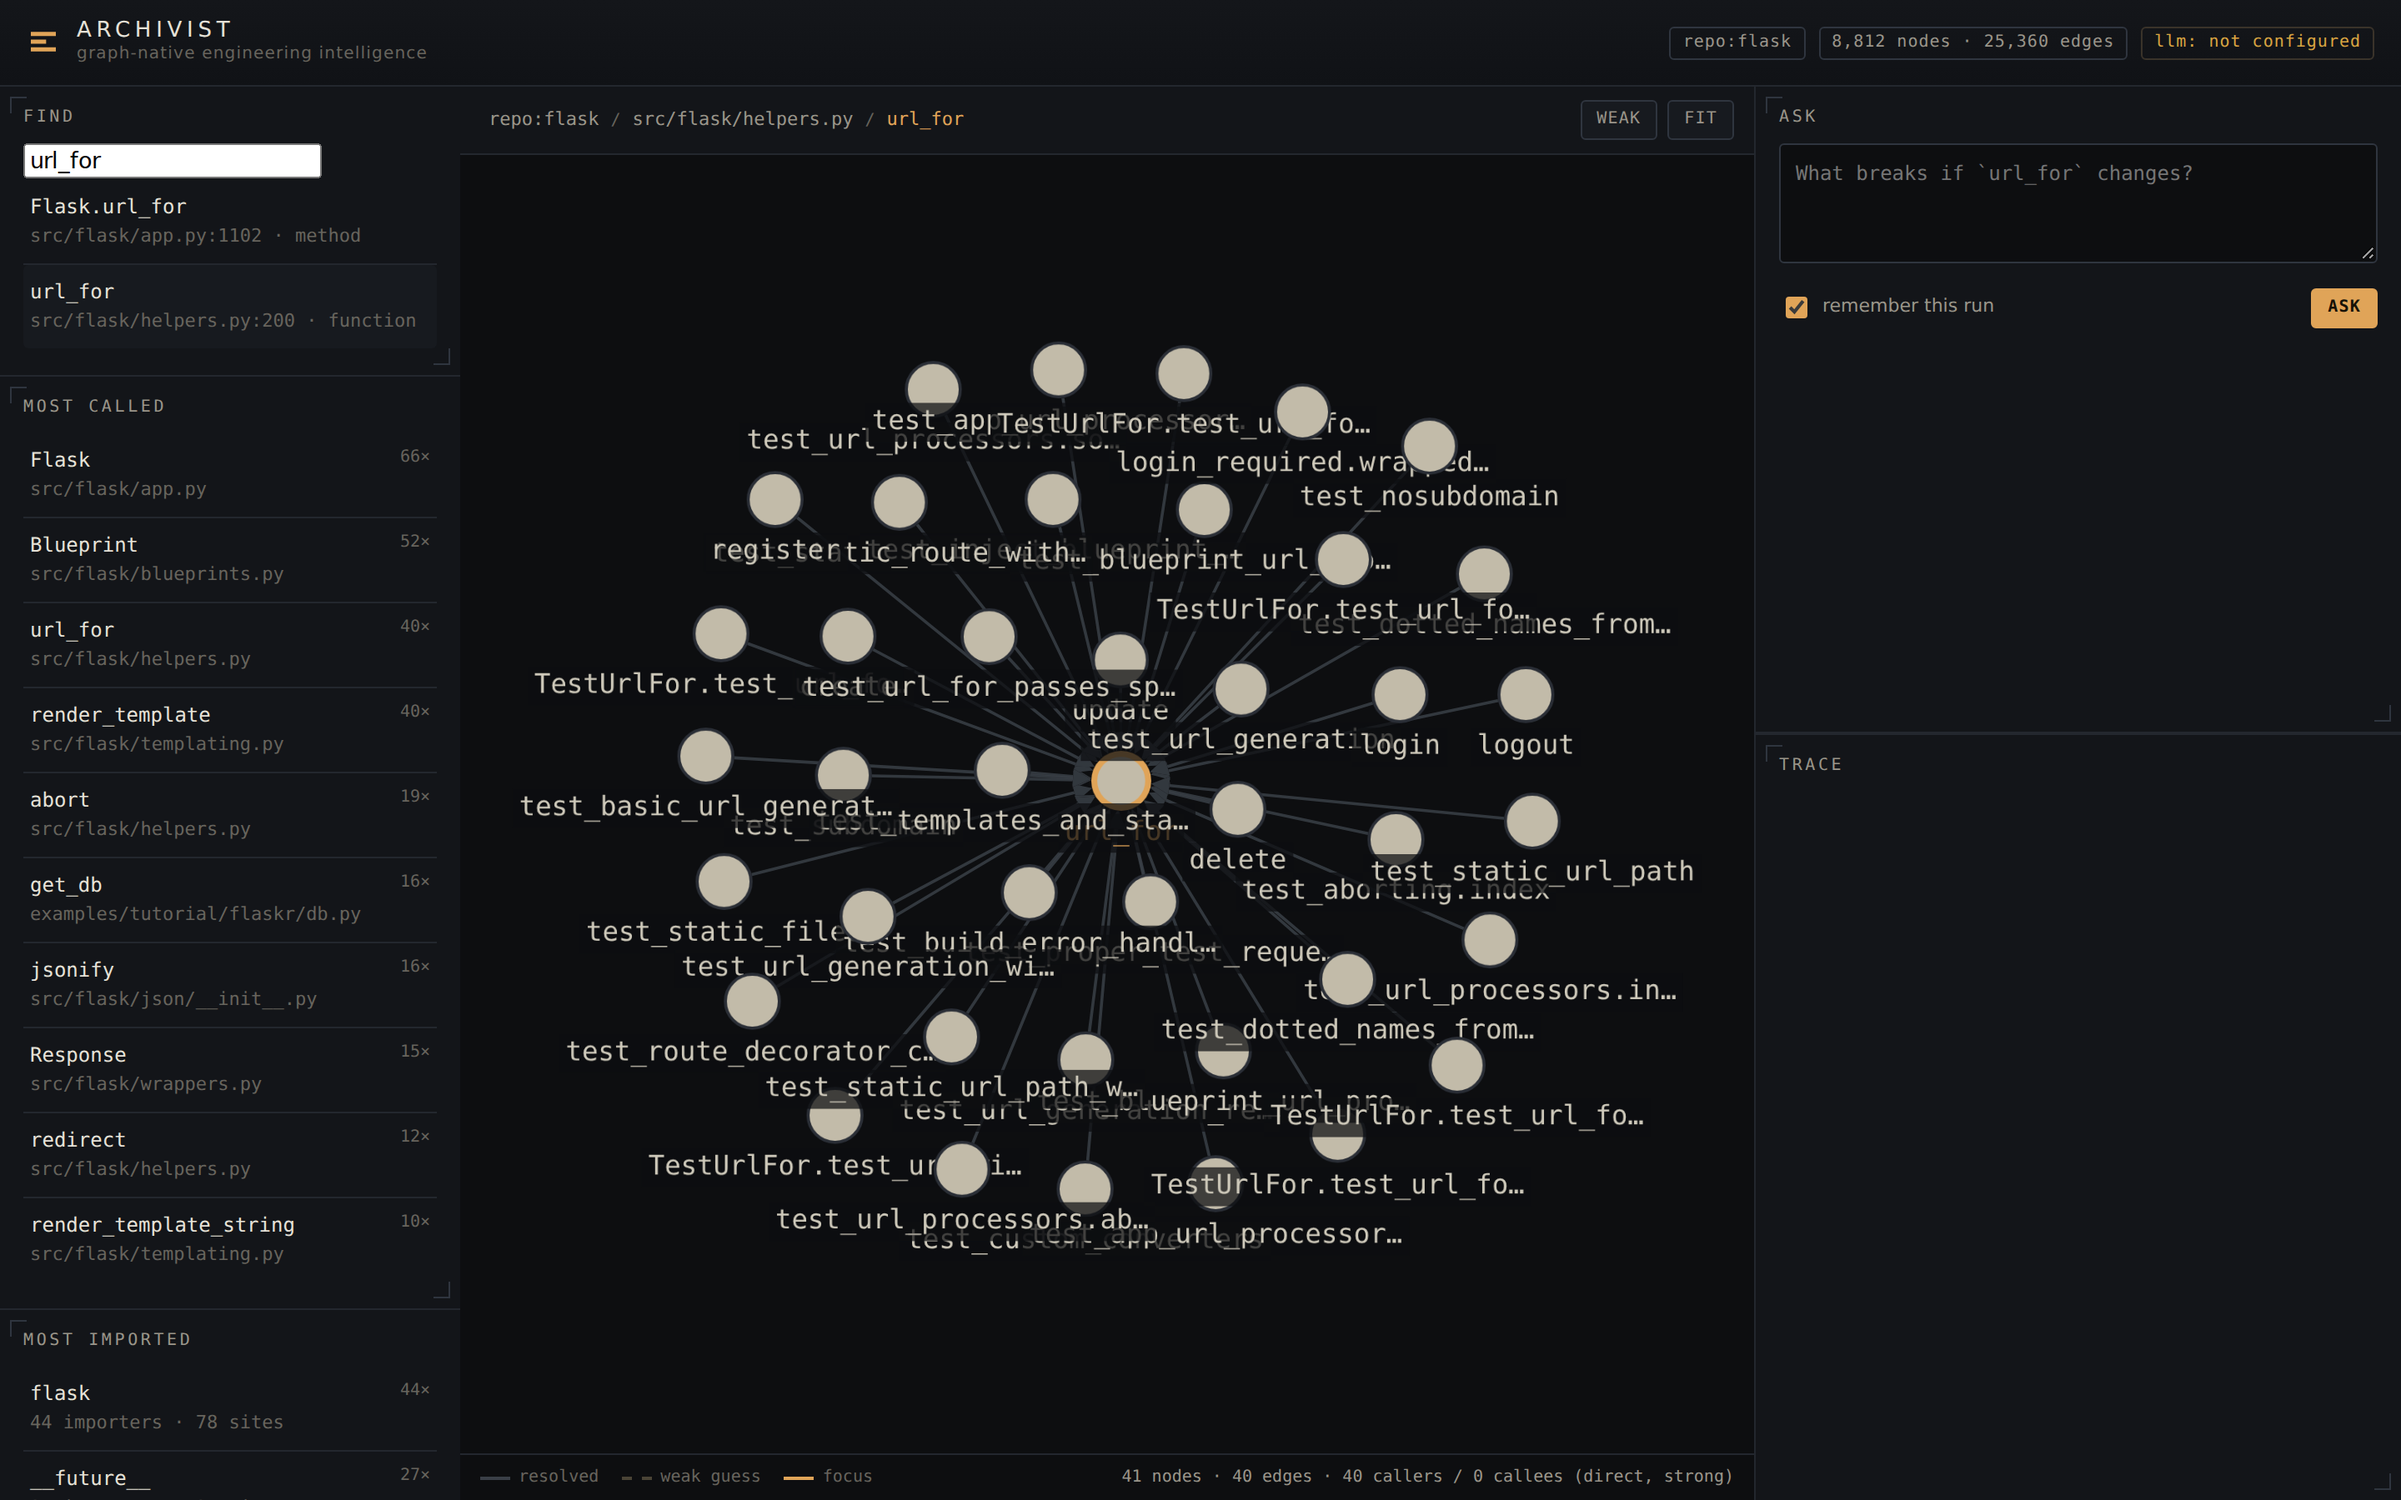
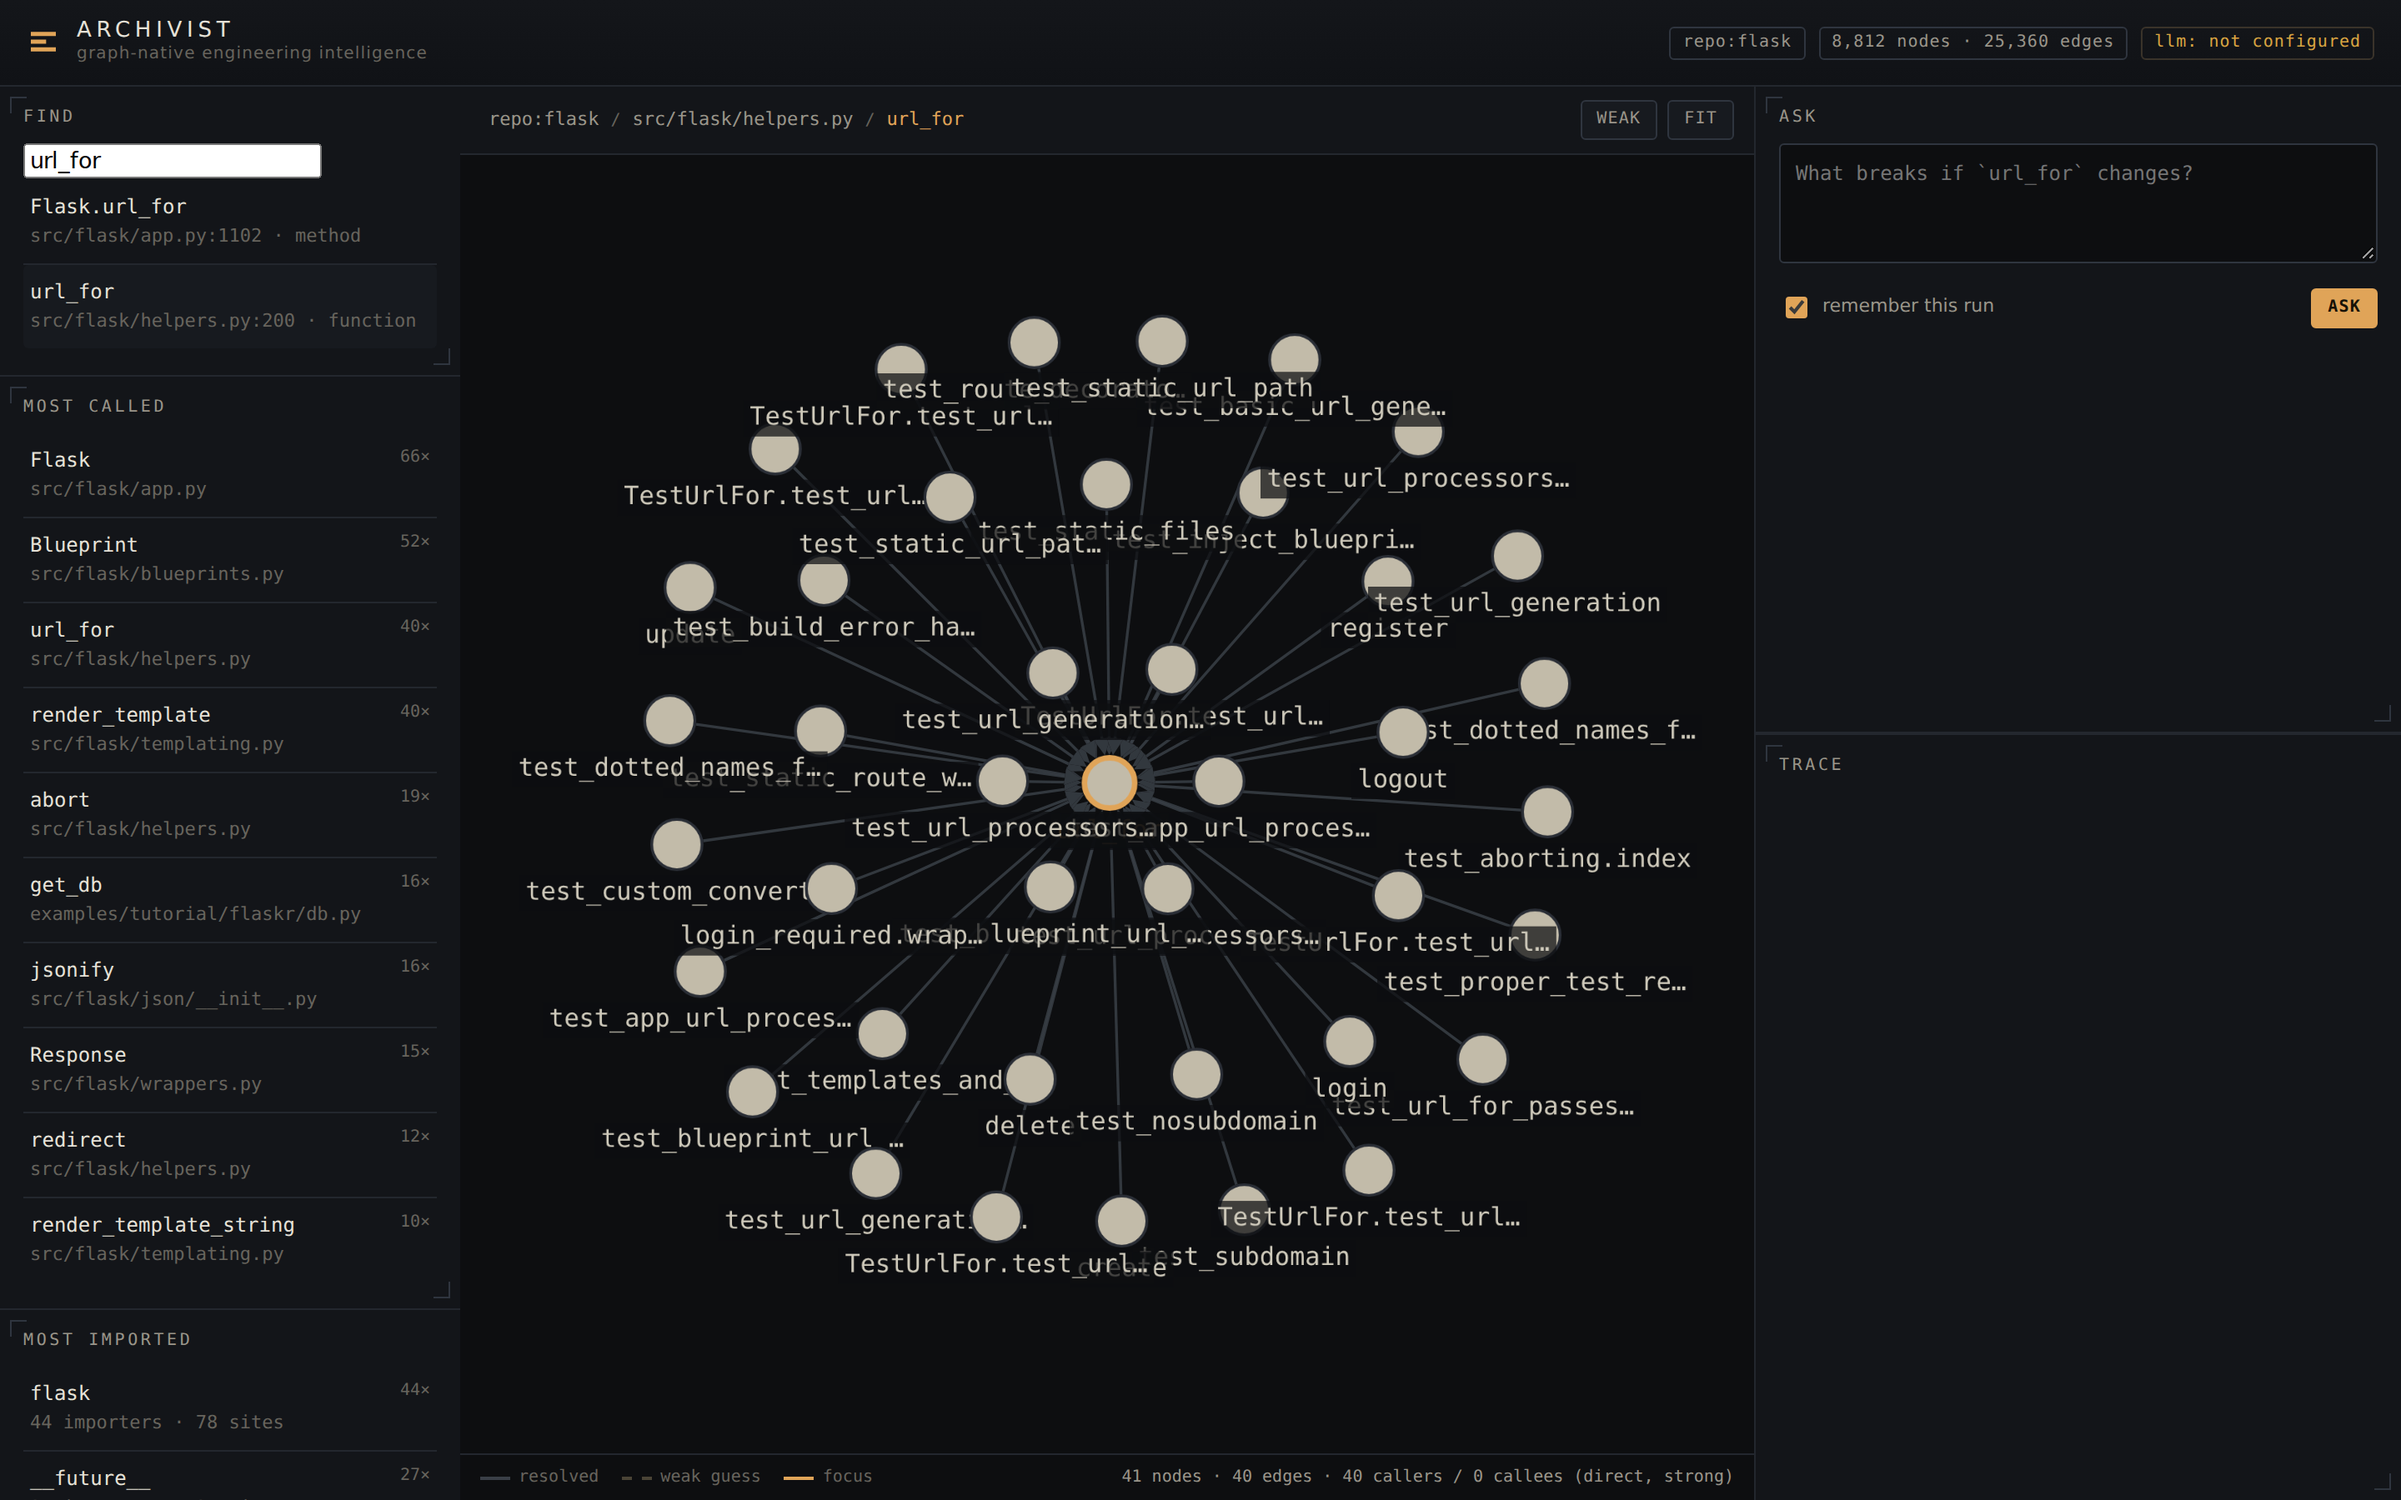
M4b polish pass 1: graph layout + label tuning; refresh screenshots

Changed region(s): [[0.2188, 0.1867, 0.7188, 0.8711]]

diff --git a/src/archivist/web/app.js b/src/archivist/web/app.js
@@ -62,7 +62,7 @@ function initCy() {
           "text-halign": "center",
           "text-margin-y": 4,
           "text-wrap": "ellipsis",
-          "text-max-width": "130px",
+          "text-max-width": "112px",
           "text-background-color": "#0d0e10",
           "text-background-opacity": 0.72,
           "text-background-padding": "2px",
@@ -108,7 +108,7 @@ function labelFor(node) {
   const p = node.props || {};
   switch (node.type) {
     case "File": return p.path;
-    case "Symbol": return trunc(p.qualname, 40);
+    case "Symbol": return trunc(p.qualname, 30);
     case "Module": return p.name;
     case "Episode": return trunc(p.question || p.kind || p.id, 36);
     case "Fact": return trunc(p.text || p.id, 36);
@@ -157,12 +157,13 @@ function render(payload) {
     name: "cose",
     animate: !REDUCED,
     animationDuration: 350,
-    nodeRepulsion: 9000,
-    idealEdgeLength: 68,
-    gravity: 0.7,
-    componentSpacing: 54,
-    padding: 26,
+    nodeRepulsion: 13000,
+    idealEdgeLength: 92,
+    gravity: 0.55,
+    componentSpacing: 72,
+    padding: 30,
     numIter: 900,
+    nodeOverlap: 14,
   });
   layout.one("layoutstop", () => cy.fit(undefined, 26));
   layout.run();
